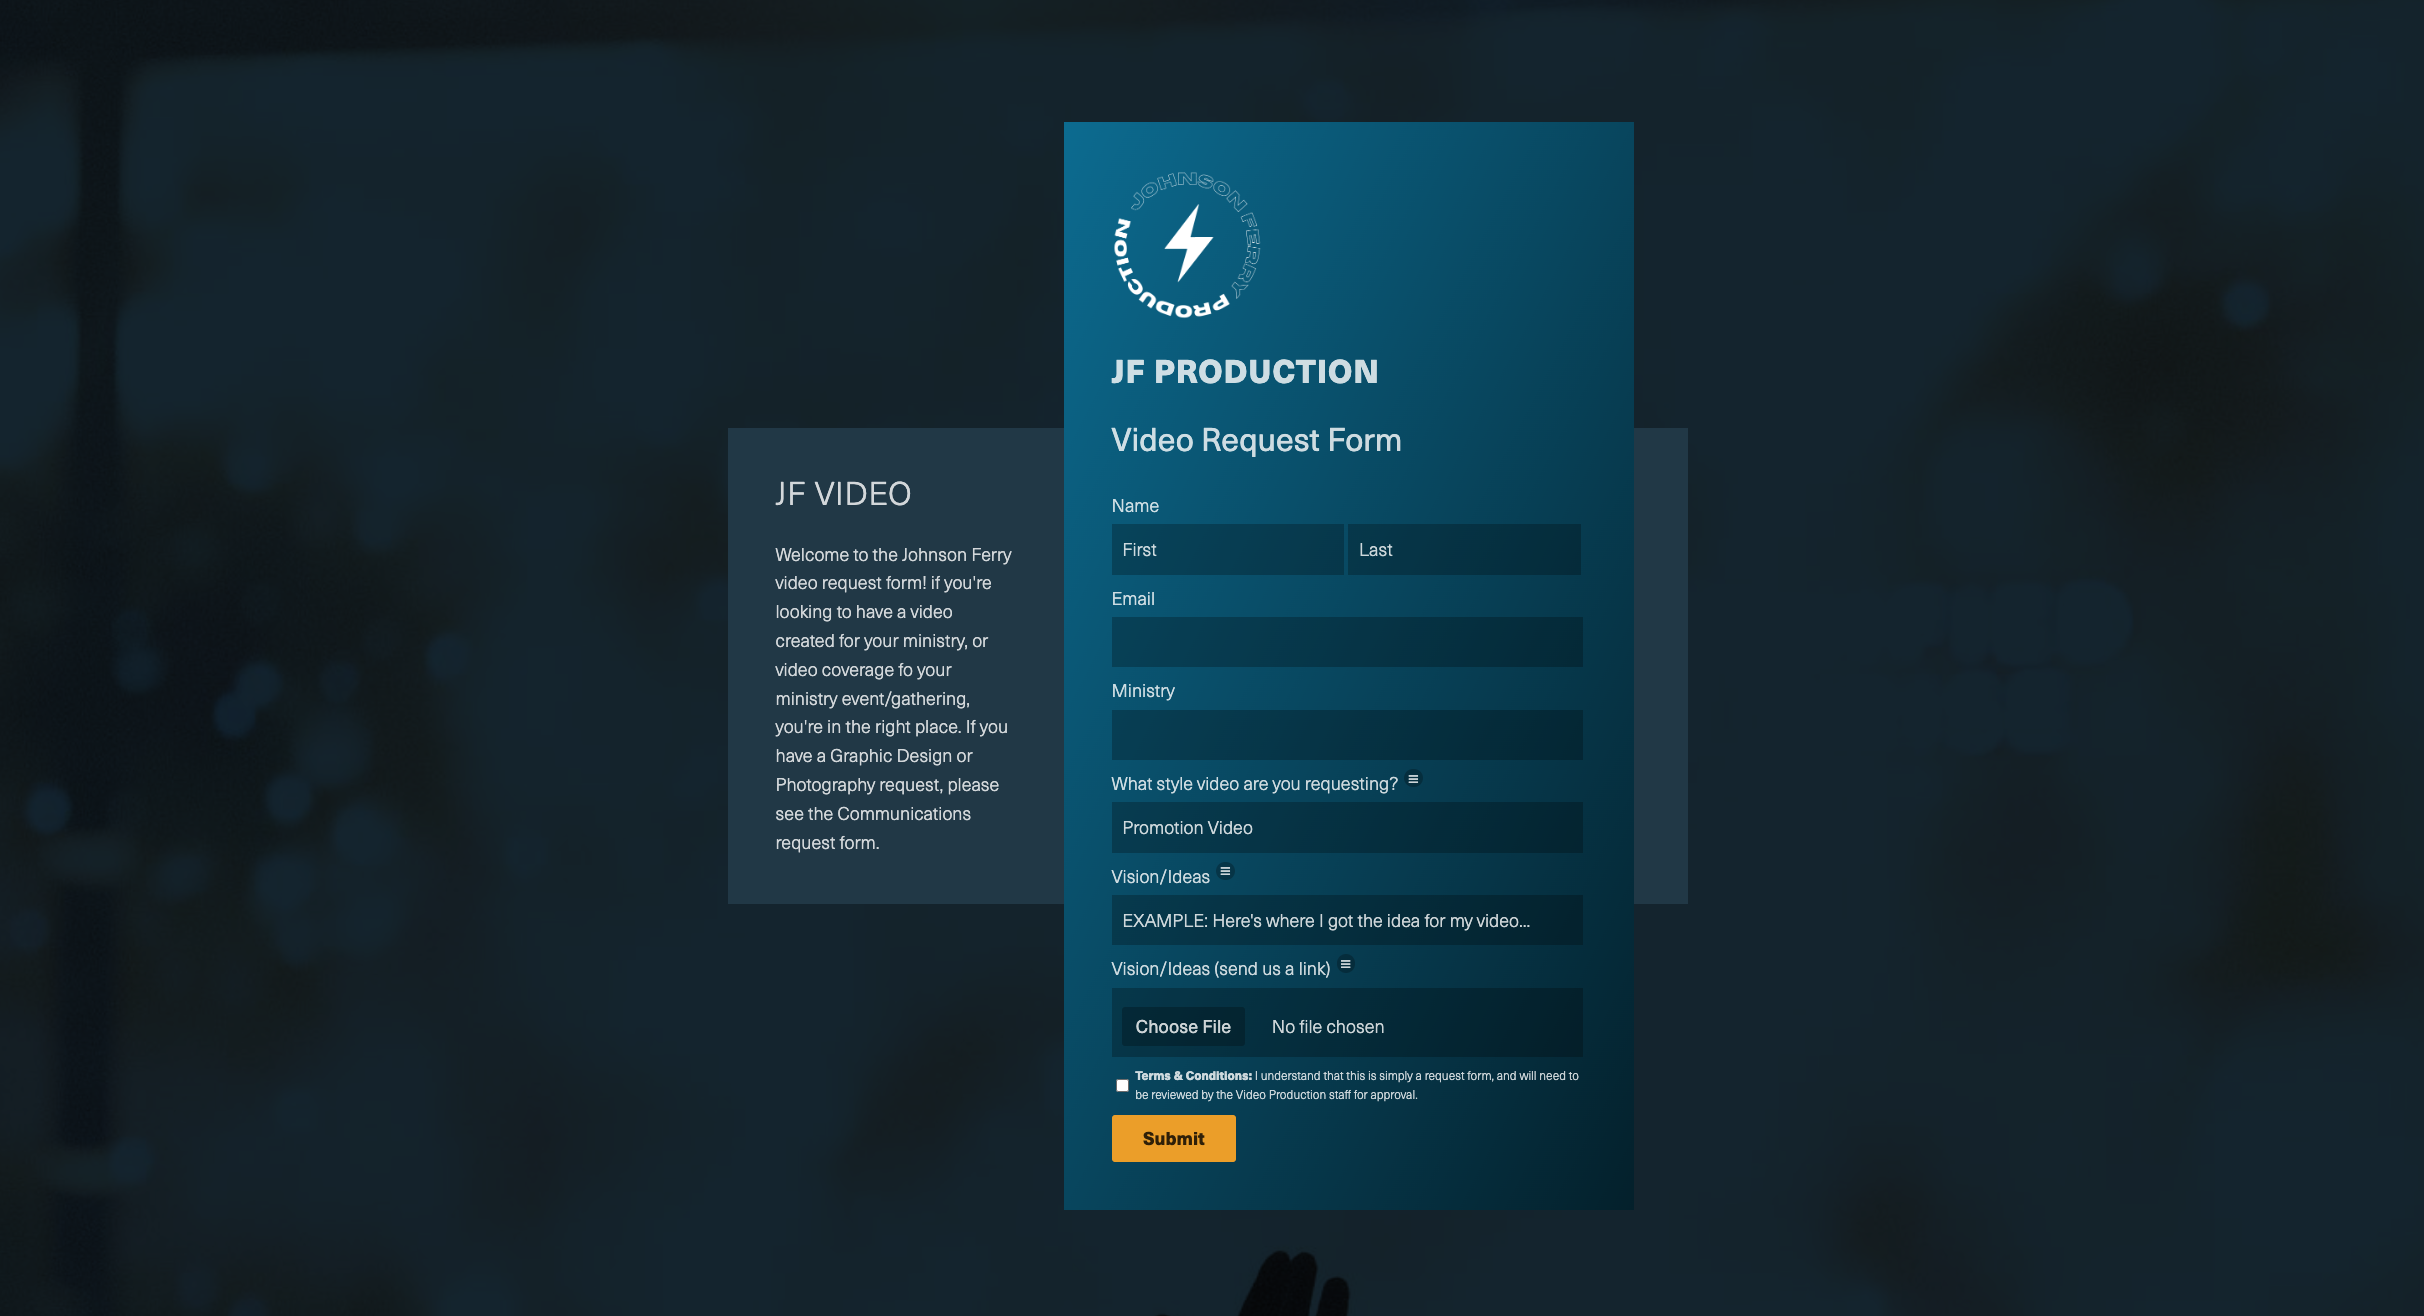
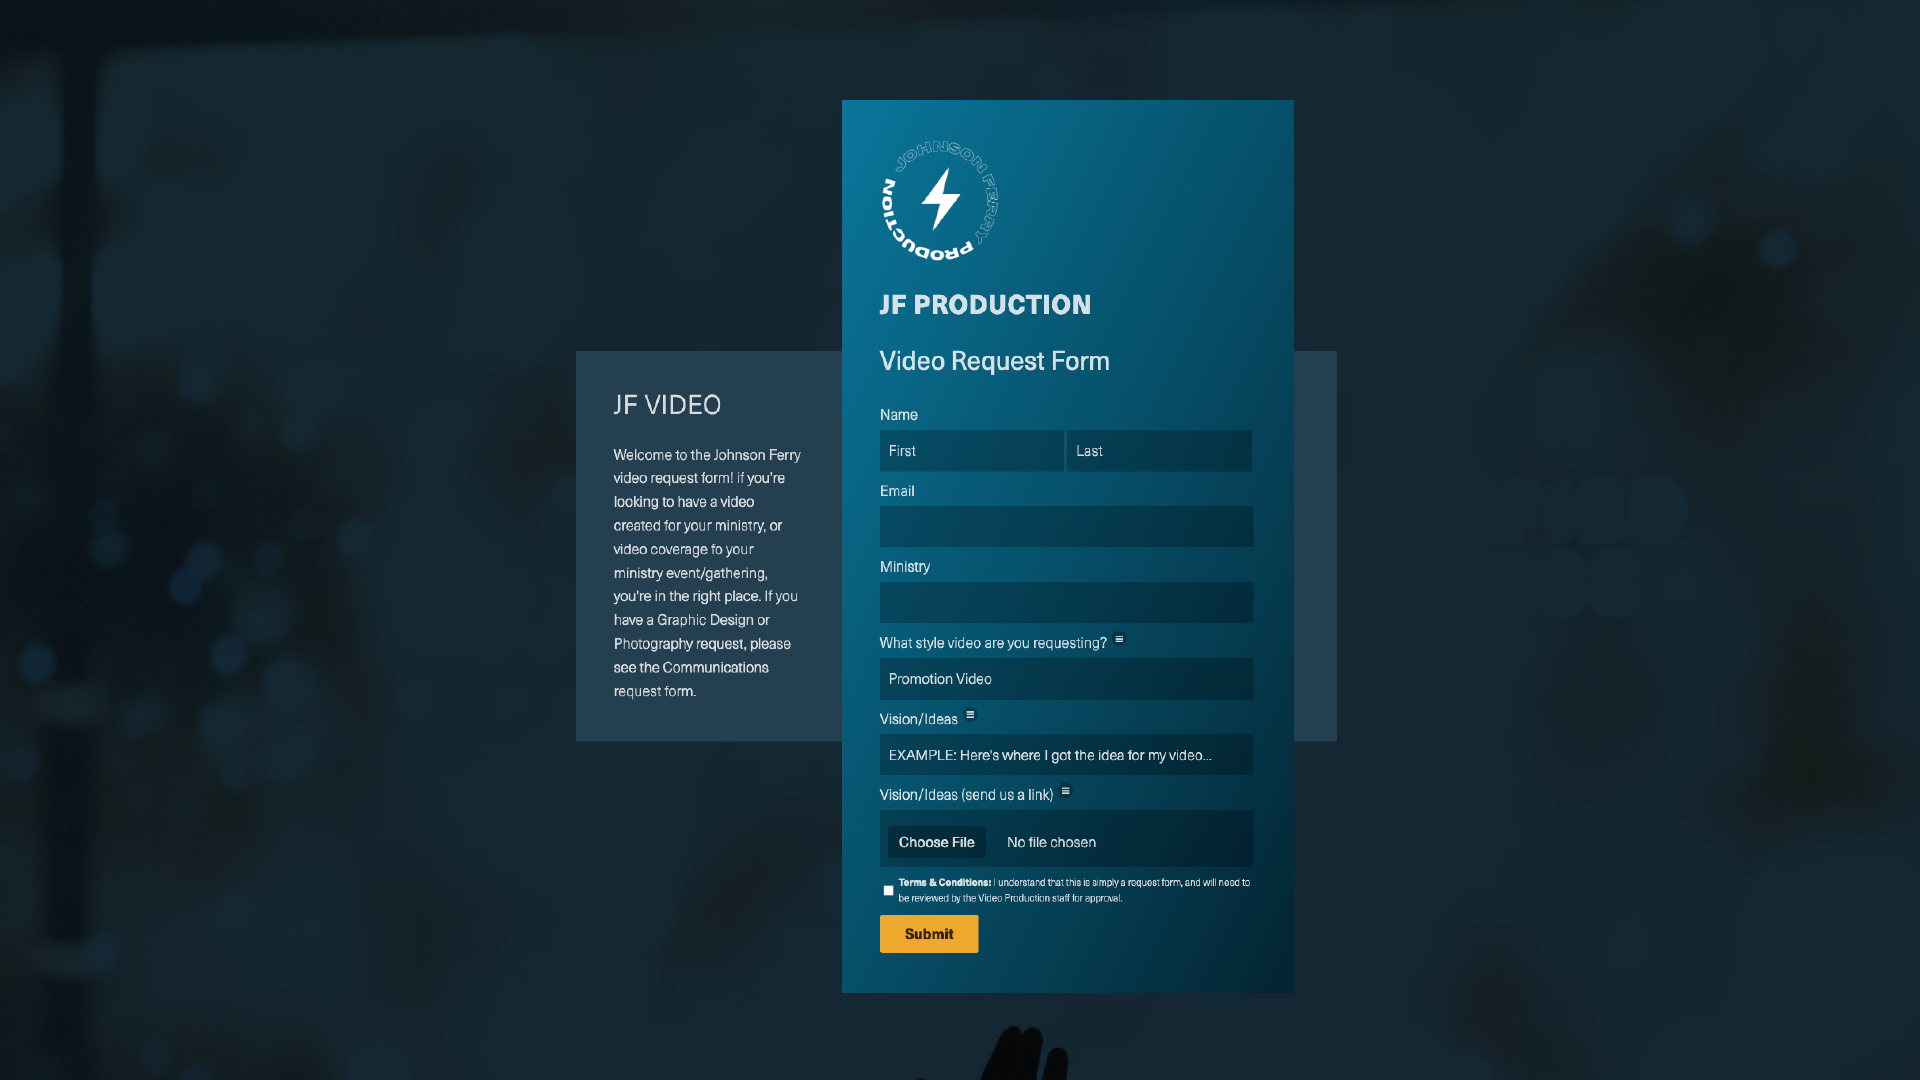
added and styled work section. adjusted various responsive elements.

diff --git a/index.html b/index.html
@@ -55,44 +55,44 @@
         
         <section class="work-section">
             <p class="h3-before">&lth3&gt</p>
-            <h3 class="section-heading">Work</h3>
+            <h3 id="work" class="section-heading">Work</h3>
             <p class="h3-after">&lt&#47h3&gt</p>
             <section class="project-wall work">
                 <figure class="wall-item jf-form">
                     <a id="jf-form" href="https://hackpres.github.io/JFSurveyForm/">
                         <img src="./assets/images/jfRequestForm.png" alt="" style="height: 100%">
                         <div class="wall-middle">
-                            <div class="wall-text">Form Project</div>
+                            <!-- <div class="wall-text">Form Project</div> -->
                         </div>
                     </a>
                 </figure>
 
-                <div class="wall-item horiseon">
+                <figure class="wall-item horiseon">
                     <a id="horiseon" href="https://hackpres.github.io/hwModule1Week1/">
                         <img src="./assets/images/horiseon.png" alt="" style="height: 100%;">
                     </a>
-                </div>
+                </figure>
 
-                <div class="wall-item ">
-                    <a id="" href="">
-                        <img src="" alt="">
+                <figure class="wall-item passwordGen">
+                    <a id="passwordGen" href="">
+                        <img src="./assets/images/passwordGen.png" alt="" style="height: 100%;">
                     </a>
-                </div>
+                </figure>
             </section>
         </section>
 
         <section class="about-section">
             <p class="h3-before">&lth3&gt</p>
-            <h3 class="section-heading">About</h3>
+            <h3 id="about" class="section-heading">About</h3>
             <p class="h3-after">&lt&#47h3&gt</p>
-            <p id="about">I'm a husband, father, musician, designer, web developer... Well the list goes on. I enjoy making things that function well and look good while they do it! Fill out my <a href="#contact" id="contact-link">contact form</a> and let me build your dream web application!</p>
+            <p class="about">I'm a husband, father, musician, designer, web developer... Well the list goes on. I enjoy making things that function well and look good while they do it! Fill out my <a href="#contact" id="contact-link">contact form</a> and let me build your dream web application!</p>
         </section>
 
         <section class="skills-section">
             <p class="h3-before">&lth3&gt</p>
-            <h3 class="section-heading">Skills</h3>
+            <h3 id="skills" class="section-heading">Skills</h3>
             <p class="h3-after">&lt&#47h3&gt</p>
-            <p id="skills">html / css / js</p>
+            <p class="skills">html / css / js</p>
             <aside class="skills-tree">
                 <ul>
                     <li class="html-logo-container">
@@ -110,11 +110,11 @@
 
         <section class="form-section">
             <p class="h3-before">&lth3&gt</p>
-            <h3 class="section-heading">Form</h3>
+            <h3 id="form" class="section-heading">Form</h3>
             <p class="h3-after">&lt&#47h3&gt</p>
             <div id="preform"></div>
             <div class="form-container">
-                <form id="form" action="" target="_self">
+                <form action="" target="_self">
                     <label for="fname">First Name</label>
                     <input type="text" id="fname" name="firstname" placeholder="Jane" required>
     
@@ -384,7 +384,7 @@
 
         <section class="connect-section">
             <p class="h3-before">&lth3&gt</p>
-            <h3 class="section-heading">Connect</h3>
+            <h3 id="connect" class="section-heading">Connect</h3>
             <p class="h3-after">&lt&#47h3&gt</p>
             <ul class="socials">
                 <li>

diff --git a/assets/css/style.css b/assets/css/style.css
@@ -164,44 +164,49 @@ main .section-heading {
 }
 
 .wall-item {
-    background-color: var(--pseudo-clr);
+    /* background-color: var(--pseudo-clr); */
     background-size: cover;
     margin: .25rem;
     overflow: hidden;
-}
-
-.jf-form {
-    grid-column: 1;
     display: flex;
     align-items: center;
     justify-content: center;
 }
 
-#jf-form {
-    height: 6.5rem;
-    margin: auto;
+.jf-form {
+    grid-column: 1;
 }
 
 .horiseon {
     grid-column: 2;
 }
 
-.wall-item:hover image {
-    opacity: 0.3;
+.passwordGen {
+    grid-column: 3;
 }
 
-#about {
+#jf-form, #passwordGen, #horiseon{
+    height: 6.5rem;
+    margin: auto;
+}
+
+.wall-item:hover {
+    opacity: 0.5;
+    transform: scale(1.08);
+}
+
+.about {
     font-family: var(--primary-font);
     margin: 1rem 0 6rem 3.5rem;
     width: 70%;
     line-height: 1.15em;
 }
 
-#about::before, #skills::before {
+.about::before, .skills::before {
     content: "<p>";
 }
 
-#about::after, #skills::after {
+.about::after, .skills::after {
     content: "</p>";
 }
 
@@ -214,7 +219,7 @@ main .section-heading {
     cursor: pointer;
 }
 
-#skills {
+.skills {
     font-family: var(--primary-font);
     margin: 1rem 0 2em 3.5rem;
     width: 70%;
@@ -379,7 +384,7 @@ form label {
     margin-left: .5rem;
 }
 
-main .pseudo-false::before, main .pseudo-false::after, main h1::before, main h2::before, .h3-before, #about::before, #skills::before, #preform::before, #false-end::before {
+main .pseudo-false::before, main .pseudo-false::after, main h1::before, main h2::before, .h3-before, .about::before, .skills::before, #preform::before, #false-end::before {
     display: block;
     font-size: 1rem;
     color: var(--pseudo-clr);
@@ -388,7 +393,7 @@ main .pseudo-false::before, main .pseudo-false::after, main h1::before, main h2:
     margin-block: .25rem;
 }
 
-main h1::after, main h2::after, .h3-after, #about::after, #skills::after, #false-end::after {
+main h1::after, main h2::after, .h3-after, .about::after, .skills::after, #false-end::after {
     font-size: medium;
     color: var(--pseudo-clr);
     font-family: var(--pseudo-font);
@@ -480,13 +485,21 @@ main h1::after, main h2::after, .h3-after, #about::after, #skills::after, #false
     main .section-heading {
         font-size: clamp(4.7rem, 15vw, 9rem);
     }
+    
+    .wall-item {
+        margin: clamp(.25rem, .75vw, 1.25rem);
+    }
 
-    main #about, main #skills {
+    .project-wall, #jf-form, #horiseon, #passwordGen {
+        height: clamp(6.5rem, 30vw, 17rem);
+    }
+
+    main .about, main .skills {
         font-size: clamp(1rem, 4.65vw, 2rem);
     }
 
     .skills-tree {
-        margin-bottom: clamp(14rem, 50vw, 25rem);
+        margin-bottom: clamp(14rem, 50vw, 40rem);
     }
 
     .skills-tree ul .html-logo-container {
@@ -569,12 +582,20 @@ main h1::after, main h2::after, .h3-after, #about::after, #skills::after, #false
         font-size: clamp(4.7rem, 15vw, 15rem);
     }
 
-    main #about, main #skills {
+    .wall-item {
+        margin: clamp(.75rem, 3vw, 1rem);
+    }
+
+    .project-wall, #jf-form, #horiseon, #passwordGen {
+        height: clamp(18rem, 35vw, 30rem);
+    }
+
+    main .about, main .skills {
         font-size: clamp(1rem, 4.65vw, 2rem);
     }
 
     .skills-tree {
-        margin-bottom: clamp(14rem, 50vw, 39rem);
+        margin-bottom: clamp(14rem, 50vw, 60rem);
     }
 
     .skills-tree ul .html-logo-container {
